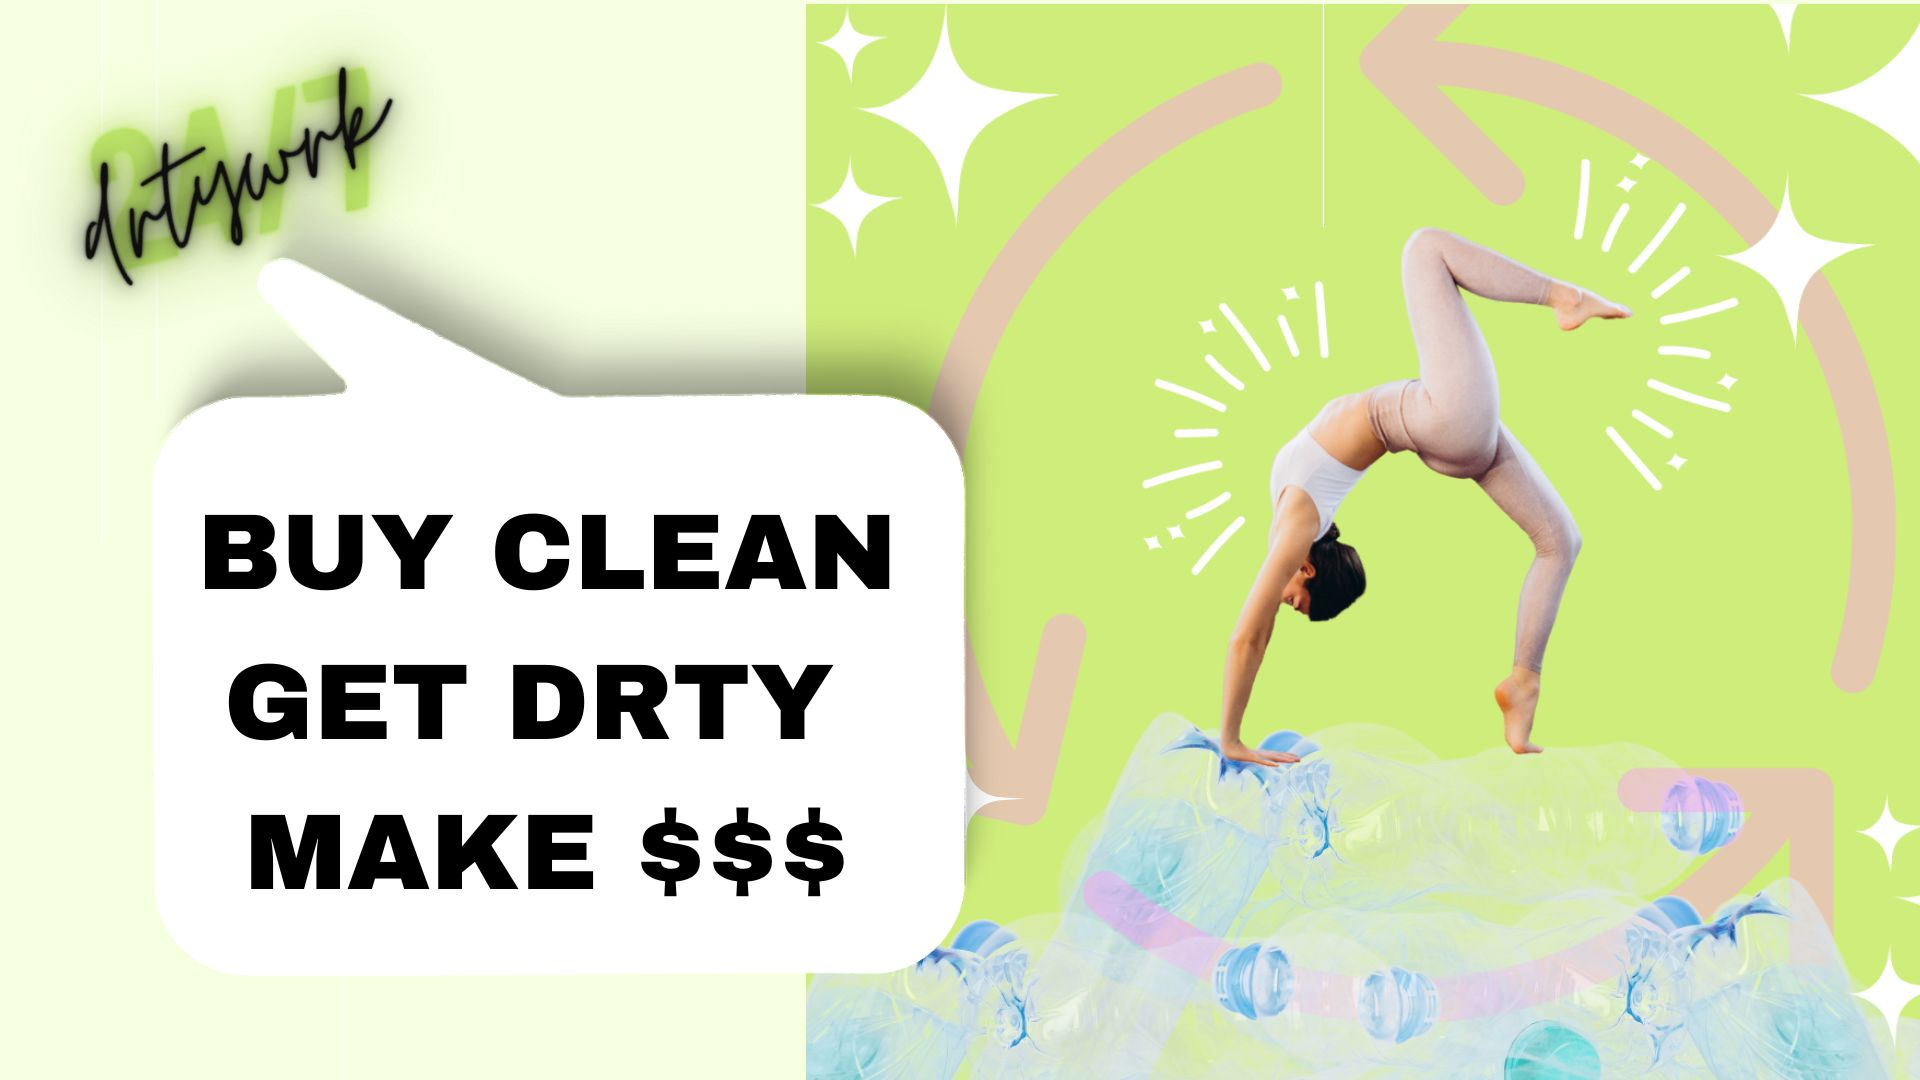
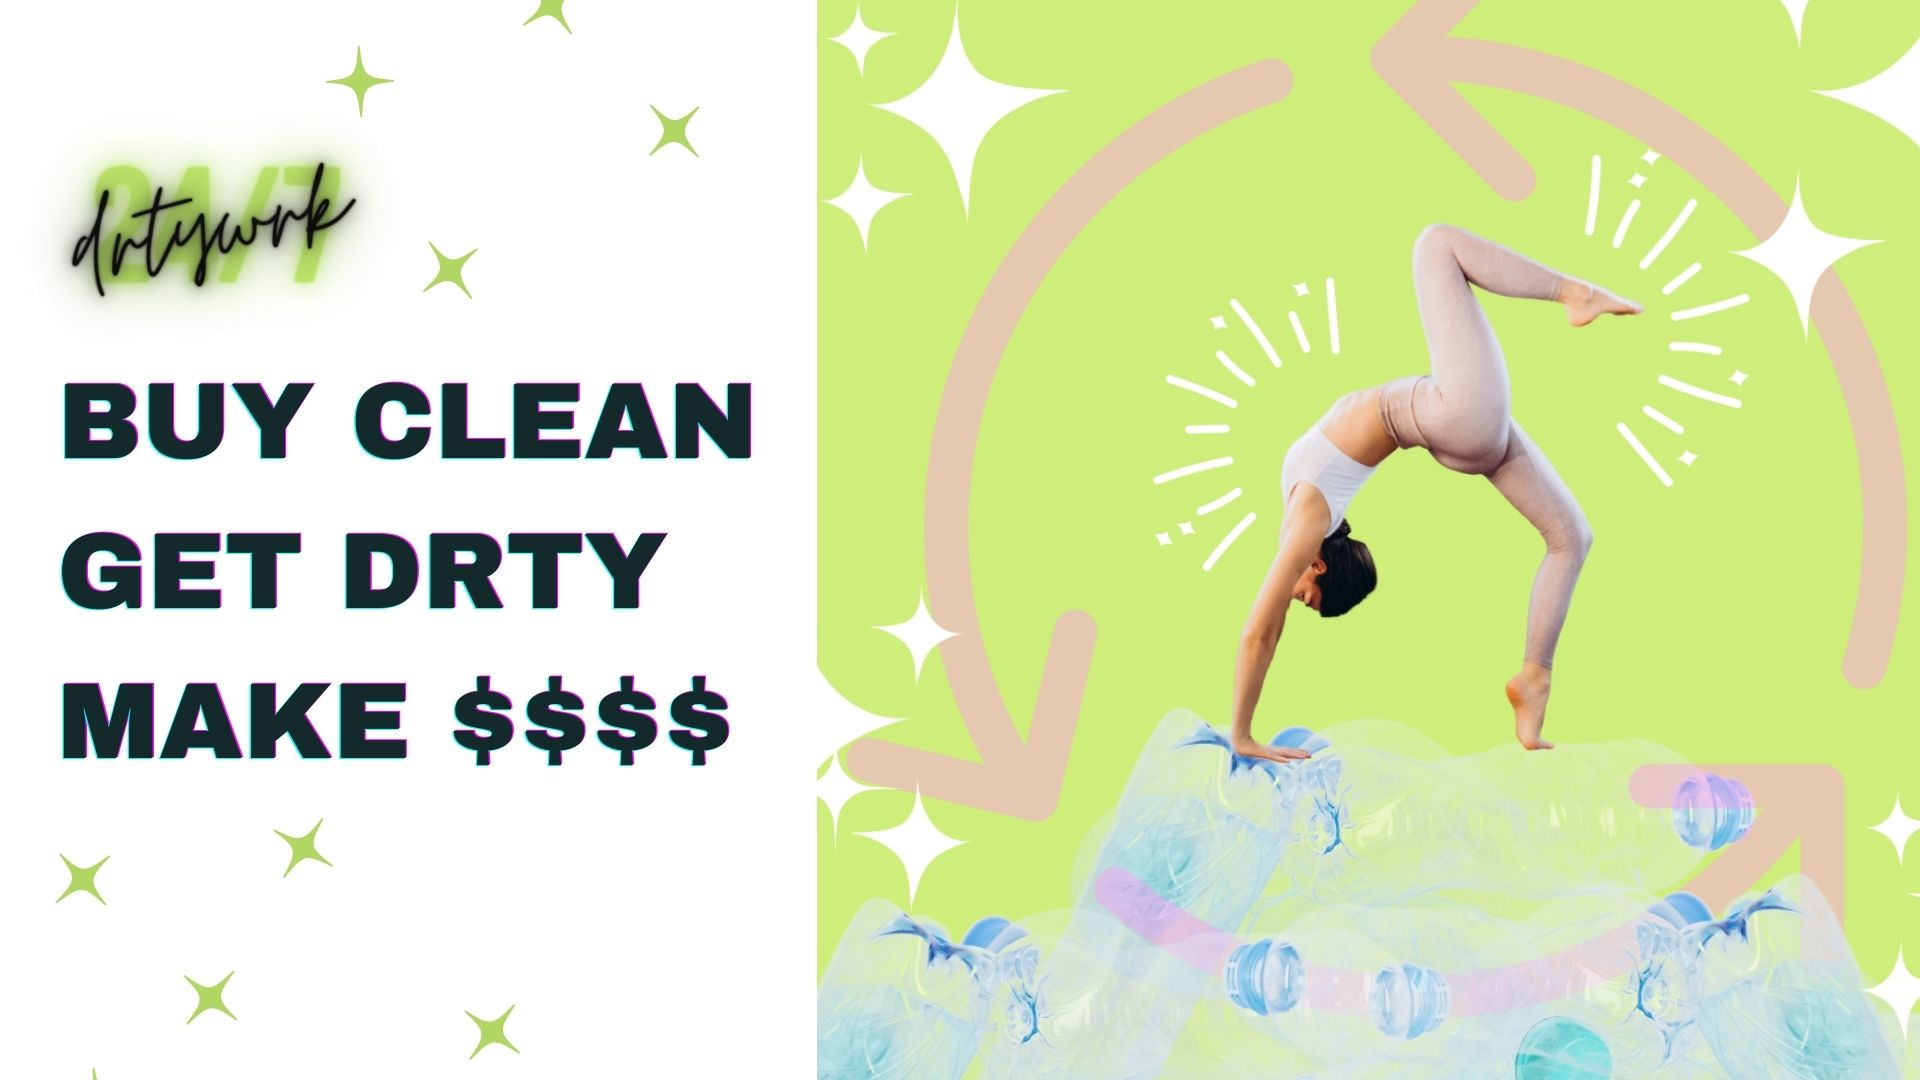
Update pages, images and brands

diff --git a/src/containers/AboutPage/AboutPage.js b/src/containers/AboutPage/AboutPage.js
@@ -17,8 +17,7 @@ import css from './AboutPage.module.css';
 import image from './about-us-1056.jpg';
 
 const AboutPage = () => {
-  const { siteTwitterHandle, siteFacebookPage } = config;
-  const siteTwitterPage = twitterPageURL(siteTwitterHandle);
+  const { siteInstagramPage, siteFacebookPage } = config;
 
   // prettier-ignore
   return (
@@ -27,7 +26,7 @@ const AboutPage = () => {
       schema={{
         '@context': 'http://schema.org',
         '@type': 'AboutPage',
-        description: 'About Sneakertime',
+        description: 'About DRTYWRK',
         name: 'About page',
       }}
     >
@@ -37,44 +36,46 @@ const AboutPage = () => {
         </LayoutWrapperTopbar>
 
         <LayoutWrapperMain className={css.staticPageWrapper}>
-          <h1 className={css.pageTitle}>There's no such thing as too many sneakers.</h1>
+          <h1 className={css.pageTitle}>Only 1% of clothing is recycled :( </h1>
           <img className={css.coverImage} src={image} alt="My first ice cream." />
 
           <div className={css.contentWrapper}>
             <div className={css.contentSide}>
-              <p>"We've built Sneakertime because we didn't trust anonymous sellers online without recommendations."</p>
+              <p>"We want to change people's minds about resale activewear. If you recycle plastic bottles and containers, you should also be recycling your plastic clothing aka leggings."</p>
             </div>
 
             <div className={css.contentMain}>
               <h2>
-                The world of Sneakers couldn't be more exciting! Whether you are a casual buyer or an experienced collector, you can find the right pair on Sneakertime and trust sellers that your new favorite item will be swiftly and safely sent to you or ready for pickup.
+              Most activewear is made from synthetic fabric blends that cannot be easily recycled. It's easier to recycle hundreds of plastic water bottles than a single pair of blended leggings. Yikes. 
               </h2>
 
               <p>
-                Buying sneakers can be stressful: you can find many online websites where to buy them but most don't deliver the trust you can legitimately expect. With Sneakertime, we want to make sure you're transaction will go smoothly: from browsing and checking the stock, to making the order and payment, to the review of the sellers. And we hope you'll be so convinced that you'll soon start selling your least favorite pairs to make new buyers happy!
+              When you sell your unwanted activewear you give them a second life. Not only are you doing something responsible for the planet but you'll find some amazing deals and discounts on brands you love like Alo Yoga, Lululemon and Nike. 
               </p>
 
-              <h3 className={css.subtitle}>Do you have sneakers to sell?</h3>
+              <p>With DRTYWRK, we want to make sure you're transaction will go smoothly: from browsing and checking the stock, to making the order and payment, to the review of the sellers. And we hope you'll be so convinced that you'll soon start selling your no longer used items to make new buyers happy!</p>
+
+              <h3 className={css.subtitle}>Do you have activewear to sell?</h3>
 
               <p>
-                Sneakertime offers you a good way to earn some extra cash! If you're not using your
-                sneakers anymore, why not sell them to other sneakers fans? And if you already have laid your eyes on the pair you want next, selling something from your collection is a great way to get money for your next buy and make room in your closets!
+                DRTYWRK offers you a good way to earn some extra cash! If you're not using your
+                activewear anymore, why not sell it? And if you already have laid your eyes on something you want next, selling something from your collection is a great way to get money for your next buy and make room in your closet!
               </p>
 
-              <h3 id="contact" className={css.subtitle}>
-                Create your own marketplace like Sneakertime
-              </h3>
-              <p>
-                Sneakertime is brought to you by the good folks at{' '}
-                <ExternalLink href="https://www.sharetribe.com">Sharetribe</ExternalLink>. Would you like
-                to create your own marketplace platform a bit like Sneakertime? Or perhaps a mobile
-                app? With Sharetribe it's really easy. If you have a marketplace idea in mind, do
-                get in touch!
+              <p>Worried about quality? Or don't have time to sell your items? Send them to us and our official DRTYWRK branded store will take care of the sorting, sanitizing and shipping for you. Win. Win. Win.
               </p>
+
+              <p>Fees: 
+                <li>Sell yourself and keep 80% of the sale. 
+                </li>
+
+                <li>Have a large number of items to sell and don't have the time? Contact us <a href="mailto:hello@drtywrk.com">here</a> and we'll wash, list and ship for a fee.</li>
+              </p>
+
               <p>
                 You can also checkout our{' '}
                 <ExternalLink href={siteFacebookPage}>Facebook</ExternalLink> and{' '}
-                <ExternalLink href={siteTwitterPage}>Twitter</ExternalLink>.
+                <ExternalLink href={siteInstagramPage}>Instagram</ExternalLink>.
               </p>
             </div>
           </div>

diff --git a/src/config/marketplace-custom-config.js b/src/config/marketplace-custom-config.js
@@ -49,9 +49,12 @@ export const filters = [
       // Note: label is not added through the translation files
       // to make filter customizations a bit easier.
       options: [
-        { key: 'men', label: 'Men' },
-        { key: 'women', label: 'Women' },
-        { key: 'kids', label: 'Kids' },
+        { key: 'dress', label: 'Dresses' },
+        { key: 'leggings', label: 'Leggings' },
+        { key: 'bra', label: 'Bras & Bralettes' },
+        { key: 'romper', label: 'Rompers & Onesies' },
+        { key: 'short', label: 'Shorts' },
+        { key: 't_shirt', label: 'Tops' },
       ],
     },
   },
@@ -73,15 +76,12 @@ export const filters = [
       // Note: label is not added through the translation files
       // to make filter customizations a bit easier.
       options: [
-        { key: '4', label: '4' },
-        { key: '5', label: '5' },
-        { key: '6', label: '6' },
-        { key: '7', label: '7' },
-        { key: '8', label: '8' },
-        { key: '9', label: '9' },
-        { key: '10', label: '10' },
-        { key: '11', label: '11' },
-        { key: '12', label: '12' },
+        { key: 'x-small', label: 'x-small' },
+        { key: 'small', label: 'small' },
+        { key: 'medium', label: 'medium' },
+        { key: 'large', label: 'large' },
+        { key: 'x-large', label: 'x-large' },
+        { key: 'xx-large', label: 'xx-large' },
       ],
     },
   },
@@ -104,13 +104,13 @@ export const filters = [
       // to make filter customizations a bit easier.
       options: [
         { key: 'adidas', label: 'Adidas' },
-        { key: 'air_jordan', label: 'Air Jordan' },
-        { key: 'converse', label: 'Converse' },
+        { key: 'alo_yoga', label: 'Alo Yoga' },
+        { key: 'aviator_nation', label: 'Aviator Nation' },
         { key: 'new_balance', label: 'New Balance' },
         { key: 'nike', label: 'Nike' },
         { key: 'puma', label: 'Puma' },
-        { key: 'ultraboost', label: 'Ultraboost' },
-        { key: 'vans', label: 'Vans' },
+        { key: 'lululemon', label: 'Lululemon' },
+        { key: 'athleta', label: 'Athleta' },
         { key: 'yeezy', label: 'Yeezy' },
         { key: 'other', label: 'Other' },
       ],

diff --git a/src/components/Footer/Footer.js b/src/components/Footer/Footer.js
@@ -125,7 +125,7 @@ const Footer = props => {
                   <NamedLink
                     name="SearchPage"
                     to={{
-                      search: '?pub_brand=air_jordan',
+                      search: '?pub_brand=sweaty_betty',
                     }}
                     className={css.link}
                   >
@@ -136,7 +136,7 @@ const Footer = props => {
                   <NamedLink
                     name="SearchPage"
                     to={{
-                      search: '?pub_brand=converse',
+                      search: '?pub_brand=gymshark',
                     }}
                     className={css.link}
                   >
@@ -173,7 +173,7 @@ const Footer = props => {
                   <NamedLink
                     name="SearchPage"
                     to={{
-                      search: '?pub_brand=puma',
+                      search: '?pub_brand=athleta',
                     }}
                     className={css.link}
                   >
@@ -184,7 +184,7 @@ const Footer = props => {
                   <NamedLink
                     name="SearchPage"
                     to={{
-                      search: '?pub_brand=ultraboost',
+                      search: '?pub_brand=ultracor',
                     }}
                     className={css.link}
                   >
@@ -195,7 +195,7 @@ const Footer = props => {
                   <NamedLink
                     name="SearchPage"
                     to={{
-                      search: '?pub_brand=vans',
+                      search: '?pub_brand=lululemon',
                     }}
                     className={css.link}
                   >

diff --git a/src/containers/LandingPage/SectionFilteredSearches/SectionFilteredSearches.js b/src/containers/LandingPage/SectionFilteredSearches/SectionFilteredSearches.js
@@ -11,9 +11,9 @@ import css from './SectionFilteredSearches.module.css';
 
 // Update images by saving images to src/LandingPage/SeactionFilteredSearches/images directory.
 // If those images have been saved with the same name, no need to make changes to these imports.
-import imageForFilter1 from './images/imageForFilter1_648x448.jpg';
-import imageForFilter2 from './images/imageForFilter2_648x448.jpg';
-import imageForFilter3 from './images/imageForFilter3_648x448.jpg';
+import imageForFilter1 from './images/imageForFilter1_648x448.png';
+import imageForFilter2 from './images/imageForFilter2_648x448.png';
+import imageForFilter3 from './images/imageForFilter3_648x448.png';
 
 // Thumbnail image for the search "card"
 class ThumbnailImage extends Component {
@@ -66,19 +66,19 @@ const SectionFilteredSearches = props => {
       </div>
       <div className={css.filteredSearches}>
         <FilterLink
-          name="Nikes"
+          name="Alo Yoga"
           image={imageForFilter1}
-          link="http://localhost:3000/s?pub_brand=nike"
+          link="http://localhost:3000/s?pub_brand=alo-yoga"
         />
         <FilterLink
-          name="Yeezys"
+          name="Sweaty Betty"
           image={imageForFilter2}
-          link="http://localhost:3000/s?pub_brand=yeezy"
+          link="http://localhost:3000/s?pub_brand=sweaty-betty"
         />
         <FilterLink
-          name="Converses"
+          name="Gymshark"
           image={imageForFilter3}
-          link="http://localhost:3000/s?pub_brand=converse"
+          link="http://localhost:3000/s?pub_brand=gymshark"
         />
       </div>
     </div>

diff --git a/src/config/config.js b/src/config/config.js
@@ -135,16 +135,16 @@ const streetAddress = 'Erottajankatu 19 B';
 const canonicalRootURL = process.env.REACT_APP_CANONICAL_ROOT_URL;
 
 // Site title is needed in meta tags (bots and social media sharing reads those)
-const siteTitle = 'Sneakertime';
+const siteTitle = 'DRTYWRK';
 
 // Twitter handle is needed in meta tags (twitter:site). Start it with '@' character
-const siteTwitterHandle = '@sharetribe';
+const siteTwitterHandle = '@talkdrtywrk';
 
 // Instagram page is used in SEO schema (http://schema.org/Organization)
-const siteInstagramPage = 'https://www.instagram.com/sharetribe/';
+const siteInstagramPage = 'https://www.instagram.com/shopdrtywrk/';
 
 // Facebook page is used in SEO schema (http://schema.org/Organization)
-const siteFacebookPage = 'https://www.facebook.com/Sharetribe/';
+const siteFacebookPage = 'https://www.facebook.com/shopdrtywrk/';
 
 // Social logins & SSO
 

diff --git a/src/styles/marketplaceDefaults.css b/src/styles/marketplaceDefaults.css
@@ -16,9 +16,9 @@
 :root {
   /* ================ Colors ================ */
 
-  --marketplaceColor: #93A856; /* hsl(260, 63%, 46%) */
+  --marketplaceColor: #A5C861; /* hsl(260, 63%, 46%) */
   --marketplaceColorLight: #E1F79E; /* hsl(260, 63%, 56%), +10L from marketplaceColor */
-  --marketplaceColorDark: #A5C861; /* hsl(260, 63%, 26%), -20L from marketplaceColor */
+  --marketplaceColorDark: #988780; /* hsl(260, 63%, 26%), -20L from marketplaceColor */
 
   /* Used with inline CSS SVGs */
   --marketplaceColorEncoded: %23a02cbf;
@@ -100,7 +100,7 @@
 
   --TopbarMobileMenu_topMargin: 96px;
 
-  --Topbar_logoHeight: 25px;
+  --Topbar_logoHeight: 45px;
   --CheckoutPage_logoHeight: 25px;
   --CheckoutPage_logoHeightDesktop: 27px;
 

diff --git a/src/components/Topbar/TopbarDesktop/TopbarDesktop.module.css b/src/components/Topbar/TopbarDesktop/TopbarDesktop.module.css
@@ -30,11 +30,11 @@
   transition: var(--transitionStyleButton);
 
   flex-shrink: 0;
-  padding: 21px 24px 21px 24px;
+  padding: 0px 24px 0px 24px;
   height: 100%;
 
   @media (--viewportLarge) {
-    padding: 21px 36px 21px 36px;
+    padding: 0px 36px 0px 36px;
   }
 }
 .logoLink:hover {
@@ -45,7 +45,7 @@
 
 .logo {
   /* If height is increased, change link paddings accordingly */
-  height: 27px;
+  height: 80px;
 
   /* Good aspect ratio should be less than 160/27 (width/height) */
   /* NOTE: extremely wide logos, need special handling. */
